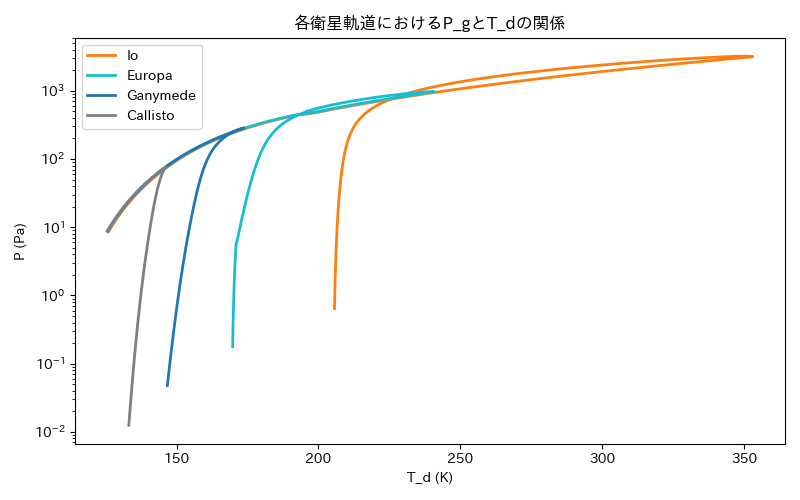
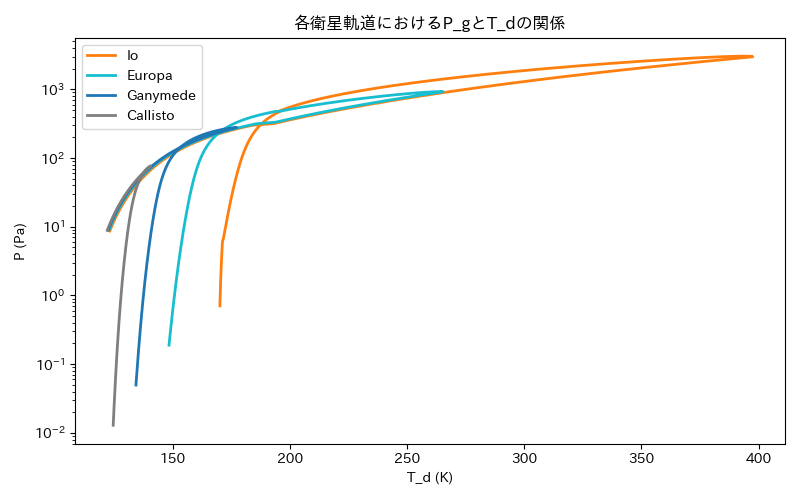
r_ggの値を二倍（3.4e-7）にした

diff --git a/gallilean_central_flax.py b/gallilean_central_flax.py
@@ -9,7 +9,7 @@ plt.rcParams['font.family'] = 'IPAexGothic'
 # --- 物理定数 ---
 G = 6.6743e-8             # 万有引力定数 (cm^3/g/s^2)
 sigma_sb = 5.67e-5         # ステファン・ボルツマン定数 (W/cm^2/K^4)
-r_gg = 1.7e-7              # 粒子とガスの面密度比
+r_gg = 3.4e-7              # 粒子とガスの面密度比
 k_B = 1.380649e-16         # ボルツマン定数 (erg/K)
 m_g = 3.9e-24              # ガスの平均分子質量 (g)
 alpha = 1.0e-4              # 乱流の強さ
